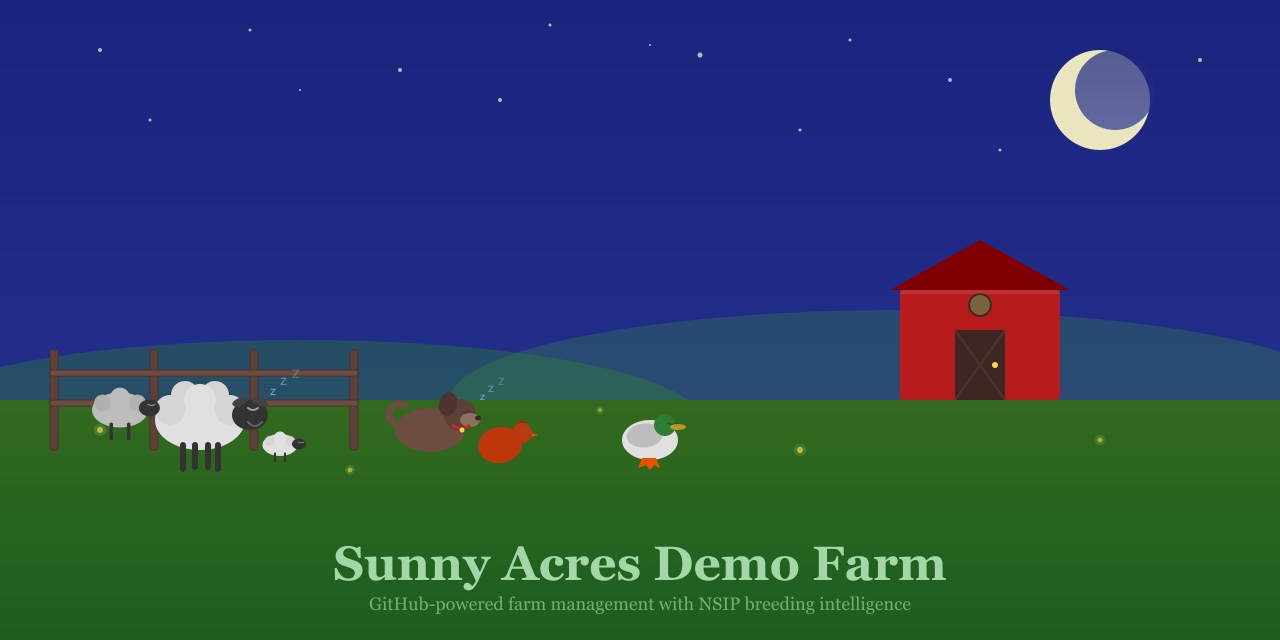
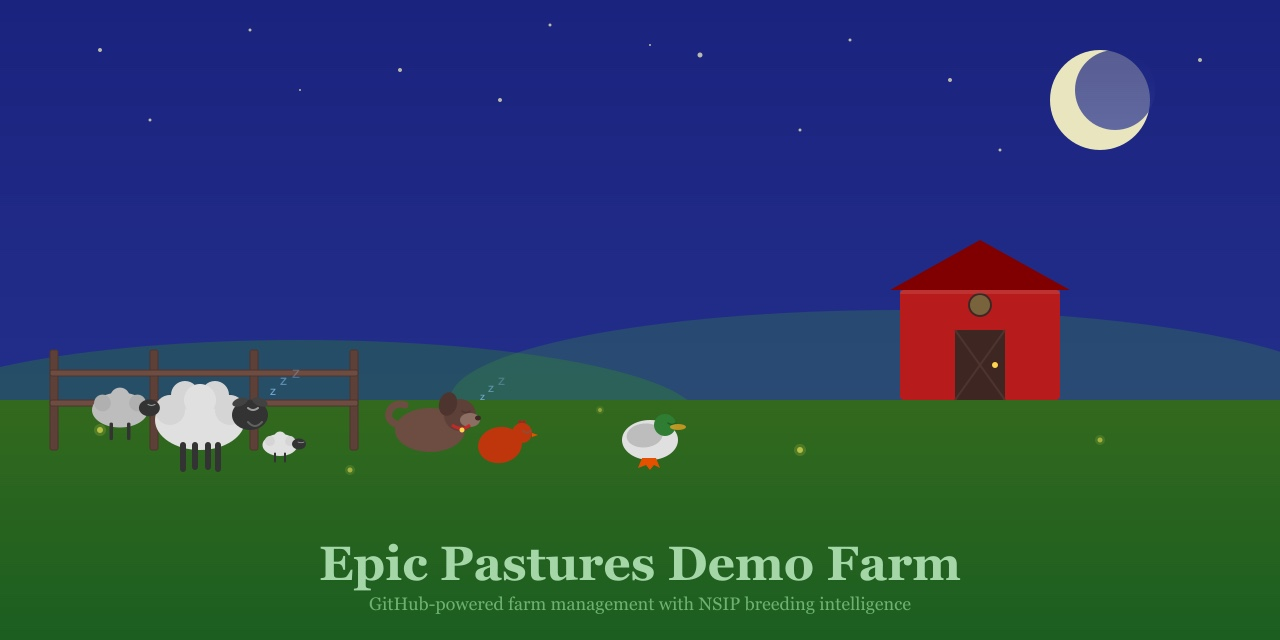
refactor: rename Sunny Acres to Epic Pastures across all files
- Updated 15 files: README, LICENSE, CONTRIBUTING, copilot-instructions,
  USER-GUIDE, 4 directory READMEs, 3 SVGs, discussion template
- Regenerated social preview JPGs from updated SVGs
- Updated contact email to epicpasturesfarm.example.com

Changed region(s): [[0.25, 0.8438, 0.75, 0.9375]]

diff --git a/docs/USER-GUIDE.md b/docs/USER-GUIDE.md
@@ -1,6 +1,6 @@
-# Sunny Acres Farm — Your Guide to Using This System
+# Epic Pastures Farm — Your Guide to Using This System
 
-Welcome! This guide will walk you through everything you need to know about using Sunny Acres' digital record-keeping system. Think of it as your **farm notebook moved online** — except it never gets lost, never gets rained on, and can do some of the math for you.
+Welcome! This guide will walk you through everything you need to know about using Epic Pastures' digital record-keeping system. Think of it as your **farm notebook moved online** — except it never gets lost, never gets rained on, and can do some of the math for you.
 
 Don't worry if computers aren't your thing. We wrote this guide with you in mind. Every step is spelled out, and there's no rush. You can always come back to this page if you get lost.
 

diff --git a/compliance/README.md b/compliance/README.md
@@ -1,6 +1,6 @@
 # Compliance
 
-This folder contains regulatory compliance and grant tracking records for Sunny Acres farm.
+This folder contains regulatory compliance and grant tracking records for Epic Pastures farm.
 
 ## Contents
 

diff --git a/CONTRIBUTING.md b/CONTRIBUTING.md
@@ -1,4 +1,4 @@
-# Contributing to Sunny Acres Farm Records
+# Contributing to Epic Pastures Farm Records
 
 Thank you for helping maintain our farm records! This guide explains
 how to contribute updates and improvements.

diff --git a/.github/copilot-instructions.md b/.github/copilot-instructions.md
@@ -1,4 +1,4 @@
-# Copilot Instructions for Sunny Acres Demo Farm
+# Copilot Instructions for Epic Pastures Demo Farm
 
 This repository manages farm operations for a 320-acre diversified
 Midwest agricultural operation.

diff --git a/equipment/README.md b/equipment/README.md
@@ -1,6 +1,6 @@
 # Equipment
 
-This folder contains all equipment-related records for Sunny Acres farm.
+This folder contains all equipment-related records for Epic Pastures farm.
 
 ## Contents
 

diff --git a/livestock/README.md b/livestock/README.md
@@ -1,6 +1,6 @@
 # Livestock
 
-This folder contains all livestock-related records for Sunny Acres farm.
+This folder contains all livestock-related records for Epic Pastures farm.
 
 ## Contents
 

diff --git a/crops/README.md b/crops/README.md
@@ -1,6 +1,6 @@
 # Crops
 
-This folder contains all crop-related records for Sunny Acres farm.
+This folder contains all crop-related records for Epic Pastures farm.
 
 ## Contents
 
